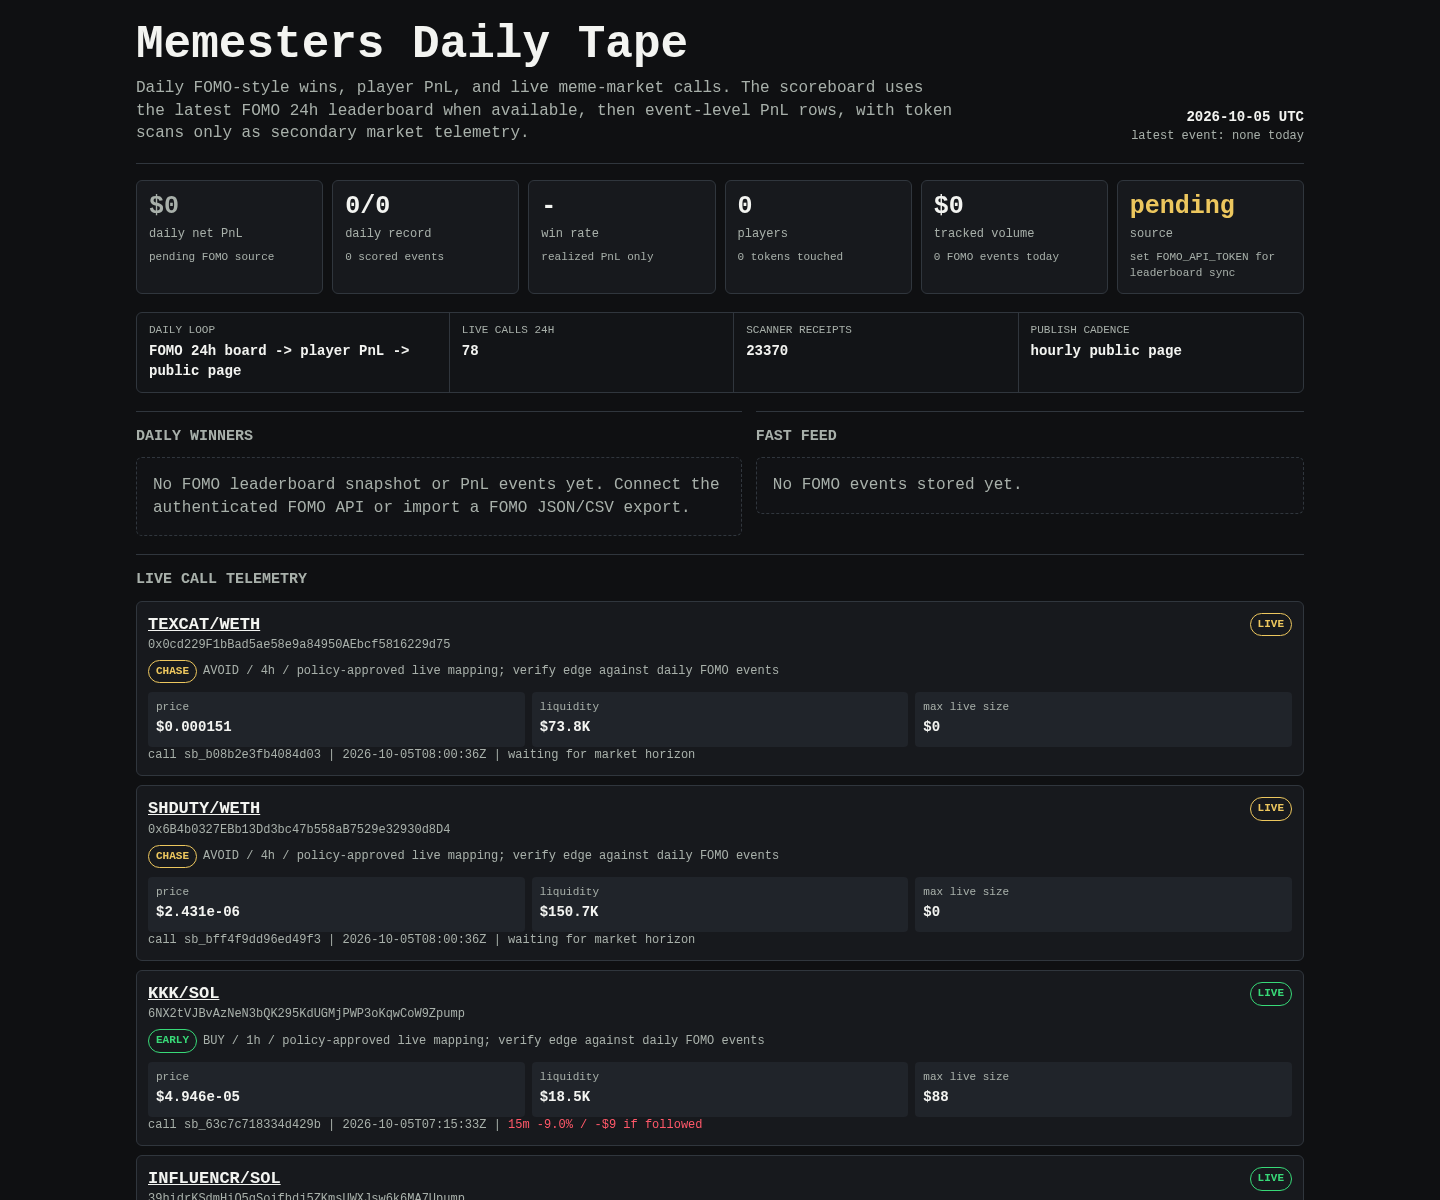
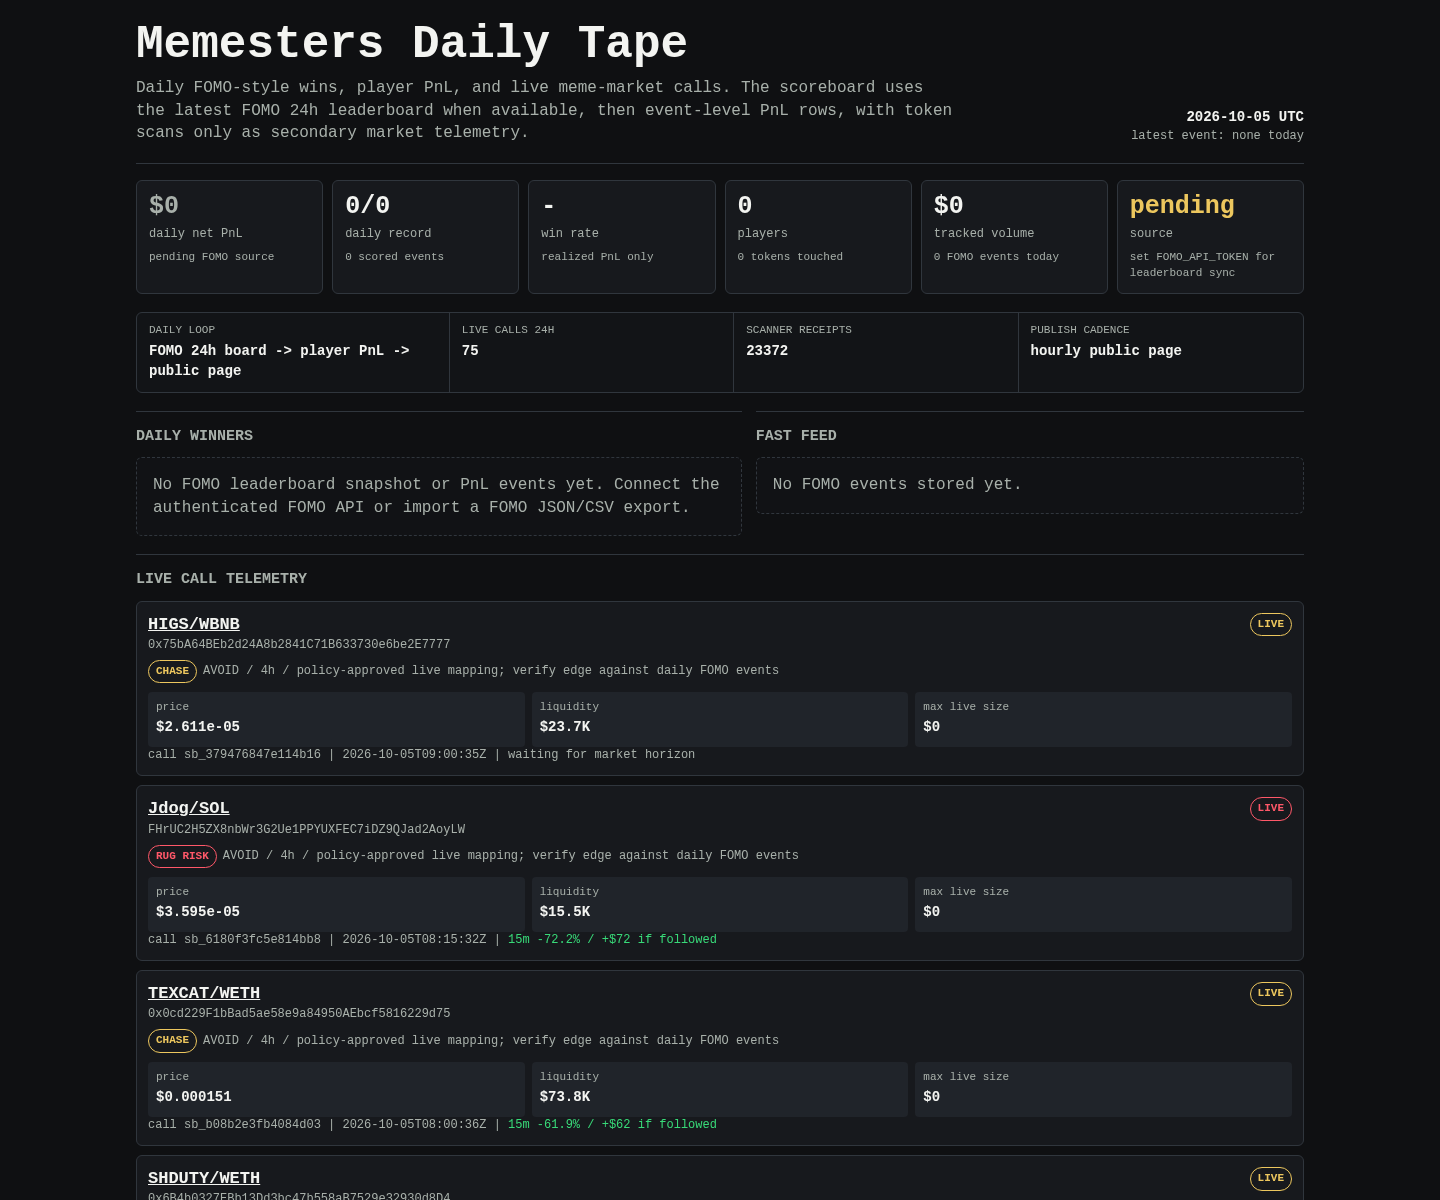
Update Memesters scoreboard

diff --git a/memesters/index.html b/memesters/index.html
@@ -149,8 +149,8 @@
 
     <div class="rail" aria-label="live operating loop">
       <div><span>daily loop</span><b>FOMO 24h board -> player PnL -> public page</b></div>
-      <div><span>live calls 24h</span><b>78</b></div>
-      <div><span>scanner receipts</span><b>23370</b></div>
+      <div><span>live calls 24h</span><b>75</b></div>
+      <div><span>scanner receipts</span><b>23372</b></div>
       <div><span>publish cadence</span><b>hourly public page</b></div>
     </div>
 
@@ -171,6 +171,48 @@
     <article class="receipt">
       <div class="receipt-head">
         <div>
+          <div class="pair"><a href="https://dexscreener.com/bsc/0xe23ec02d0a88e20342b4d92bbf2a58a2eee34d69">HIGS/WBNB</a></div>
+          <div class="addr">0x75bA64BEb2d24A8b2841C71B633730e6be2E7777</div>
+          <div class="addr policy-line">
+            <span class="badge chase">CHASE</span>
+            <span>AVOID / 4h / policy-approved live mapping; verify edge against daily FOMO events</span>
+          </div>
+        </div>
+        <span class="badge chase">LIVE</span>
+      </div>
+      <div class="receipt-grid">
+        <div class="kv"><span>price</span><b>$2.611e-05</b></div>
+        <div class="kv"><span>liquidity</span><b>$23.7K</b></div>
+        <div class="kv"><span>max live size</span><b>$0</b></div>
+      </div>
+      <div class="outcomes">call sb_379476847e114b16 | 2026-10-05T09:00:35Z | waiting for market horizon</div>
+    </article>
+    
+
+    <article class="receipt">
+      <div class="receipt-head">
+        <div>
+          <div class="pair"><a href="https://dexscreener.com/solana/evcbxrblyofmwgijrqewsfcssboyyr8s1oxmg19fffcv">Jdog/SOL</a></div>
+          <div class="addr">FHrUC2H5ZX8nbWr3G2Ue1PPYUXFEC7iDZ9QJad2AoyLW</div>
+          <div class="addr policy-line">
+            <span class="badge rug-risk">RUG RISK</span>
+            <span>AVOID / 4h / policy-approved live mapping; verify edge against daily FOMO events</span>
+          </div>
+        </div>
+        <span class="badge rug-risk">LIVE</span>
+      </div>
+      <div class="receipt-grid">
+        <div class="kv"><span>price</span><b>$3.595e-05</b></div>
+        <div class="kv"><span>liquidity</span><b>$15.5K</b></div>
+        <div class="kv"><span>max live size</span><b>$0</b></div>
+      </div>
+      <div class="outcomes">call sb_6180f3fc5e814bb8 | 2026-10-05T08:15:32Z | <span class="positive">15m -72.2% / +$72 if followed</span></div>
+    </article>
+    
+
+    <article class="receipt">
+      <div class="receipt-head">
+        <div>
           <div class="pair"><a href="https://dexscreener.com/robinhood/0xec7fe2cb601715adea4b64e50480ec73b5ee047f">TEXCAT/WETH</a></div>
           <div class="addr">0x0cd229F1bBad5ae58e9a84950AEbcf5816229d75</div>
           <div class="addr policy-line">
@@ -185,7 +227,7 @@
         <div class="kv"><span>liquidity</span><b>$73.8K</b></div>
         <div class="kv"><span>max live size</span><b>$0</b></div>
       </div>
-      <div class="outcomes">call sb_b08b2e3fb4084d03 | 2026-10-05T08:00:36Z | waiting for market horizon</div>
+      <div class="outcomes">call sb_b08b2e3fb4084d03 | 2026-10-05T08:00:36Z | <span class="positive">15m -61.9% / +$62 if followed</span></div>
     </article>
     
 
@@ -206,7 +248,7 @@
         <div class="kv"><span>liquidity</span><b>$150.7K</b></div>
         <div class="kv"><span>max live size</span><b>$0</b></div>
       </div>
-      <div class="outcomes">call sb_bff4f9dd96ed49f3 | 2026-10-05T08:00:36Z | waiting for market horizon</div>
+      <div class="outcomes">call sb_bff4f9dd96ed49f3 | 2026-10-05T08:00:36Z | <span class="negative">15m +351.7% / -$352 if followed</span></div>
     </article>
     
 
@@ -227,7 +269,7 @@
         <div class="kv"><span>liquidity</span><b>$18.5K</b></div>
         <div class="kv"><span>max live size</span><b>$88</b></div>
       </div>
-      <div class="outcomes">call sb_63c7c718334d429b | 2026-10-05T07:15:33Z | <span class="negative">15m -9.0% / -$9 if followed</span></div>
+      <div class="outcomes">call sb_63c7c718334d429b | 2026-10-05T07:15:33Z | <span class="negative">15m -9.0% / -$9 if followed</span> | <span class="negative">1h -74.4% / -$74 if followed</span></div>
     </article>
     
 
@@ -248,7 +290,7 @@
         <div class="kv"><span>liquidity</span><b>$23.5K</b></div>
         <div class="kv"><span>max live size</span><b>$40</b></div>
       </div>
-      <div class="outcomes">call sb_ea503c7f8ff143b1 | 2026-10-05T07:15:33Z | <span class="negative">15m -54.0% / -$54 if followed</span></div>
+      <div class="outcomes">call sb_ea503c7f8ff143b1 | 2026-10-05T07:15:33Z | <span class="negative">15m -54.0% / -$54 if followed</span> | <span class="negative">1h -96.6% / -$97 if followed</span></div>
     </article>
     
 
@@ -333,48 +375,6 @@
         <div class="kv"><span>max live size</span><b>$0</b></div>
       </div>
       <div class="outcomes">call sb_1c938ff3bb7f4332 | 2026-10-05T06:00:35Z | <span class="negative">15m +145.7% / -$146 if followed</span> | <span class="negative">1h +119.6% / -$120 if followed</span></div>
-    </article>
-    
-
-    <article class="receipt">
-      <div class="receipt-head">
-        <div>
-          <div class="pair"><a href="https://dexscreener.com/solana/edpdmh9osdapqtukaiehumyx54hbojrlpm7yibctsfvu">DSI/SOL</a></div>
-          <div class="addr">DfUNT1TzQDPrEfcqCvhqy6u64u7sD6QZn9VshbkxQuCP</div>
-          <div class="addr policy-line">
-            <span class="badge rug-risk">RUG RISK</span>
-            <span>AVOID / 4h / policy-approved live mapping; verify edge against daily FOMO events</span>
-          </div>
-        </div>
-        <span class="badge rug-risk">LIVE</span>
-      </div>
-      <div class="receipt-grid">
-        <div class="kv"><span>price</span><b>$3.541e-05</b></div>
-        <div class="kv"><span>liquidity</span><b>$15.3K</b></div>
-        <div class="kv"><span>max live size</span><b>$0</b></div>
-      </div>
-      <div class="outcomes">call sb_a7550927483b49c1 | 2026-10-05T05:30:35Z | <span class="positive">15m -54.4% / +$54 if followed</span> | <span class="positive">1h -82.3% / +$82 if followed</span></div>
-    </article>
-    
-
-    <article class="receipt">
-      <div class="receipt-head">
-        <div>
-          <div class="pair"><a href="https://dexscreener.com/solana/eh9xvputvvmwtekuqu3afqxjekwcni36byyrzuabi5j2">SIGIL/ZEC</a></div>
-          <div class="addr">FDnexXAAYRNaAVJzYZuvtiCbQY6rA4E9z2vW4xBzpump</div>
-          <div class="addr policy-line">
-            <span class="badge rug-risk">RUG RISK</span>
-            <span>AVOID / 4h / policy-approved live mapping; verify edge against daily FOMO events</span>
-          </div>
-        </div>
-        <span class="badge rug-risk">LIVE</span>
-      </div>
-      <div class="receipt-grid">
-        <div class="kv"><span>price</span><b>$1.194e-05</b></div>
-        <div class="kv"><span>liquidity</span><b>$7.8K</b></div>
-        <div class="kv"><span>max live size</span><b>$0</b></div>
-      </div>
-      <div class="outcomes">call sb_29e28fc0f424487d | 2026-10-05T05:30:35Z | <span class="positive">15m -68.5% / +$69 if followed</span> | <span class="positive">1h -69.8% / +$70 if followed</span></div>
     </article>
     
     </section>
